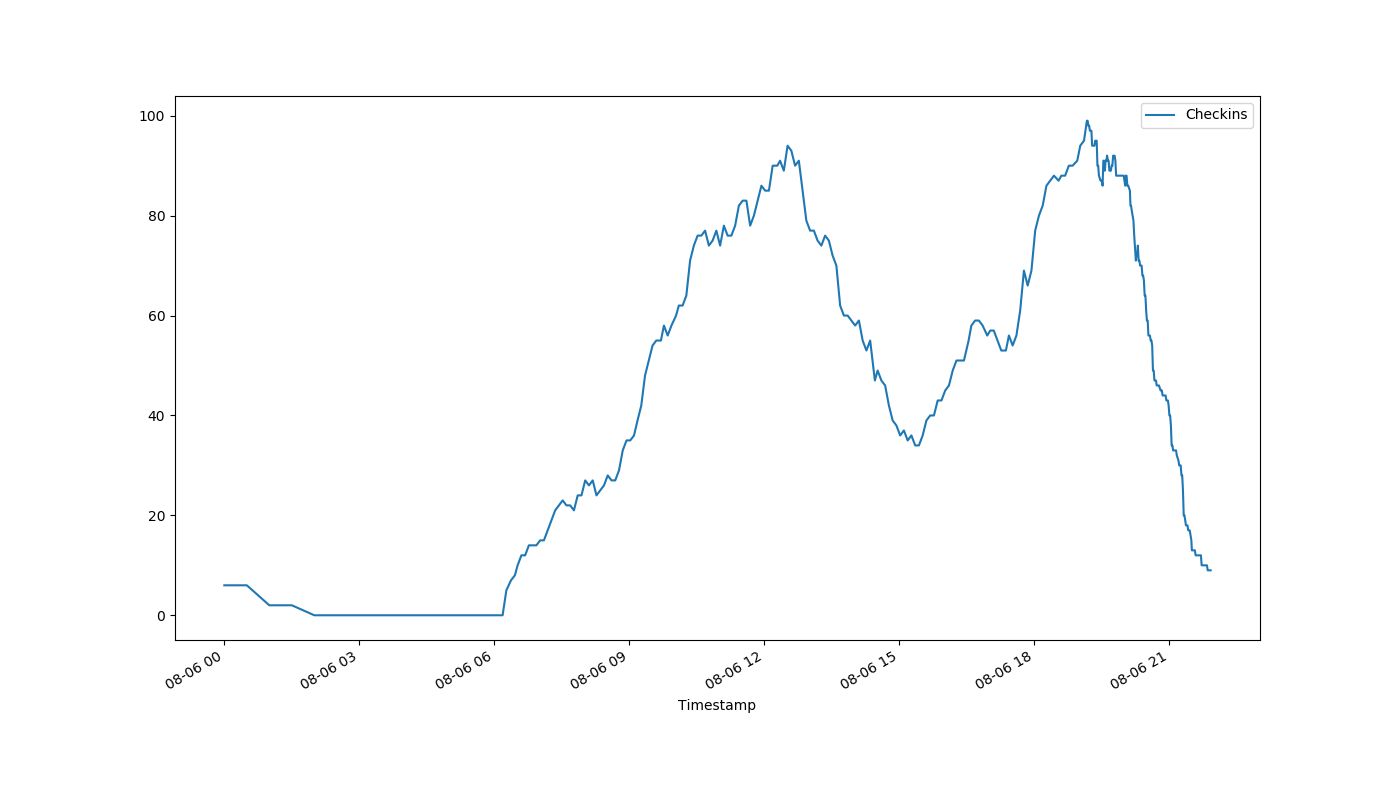
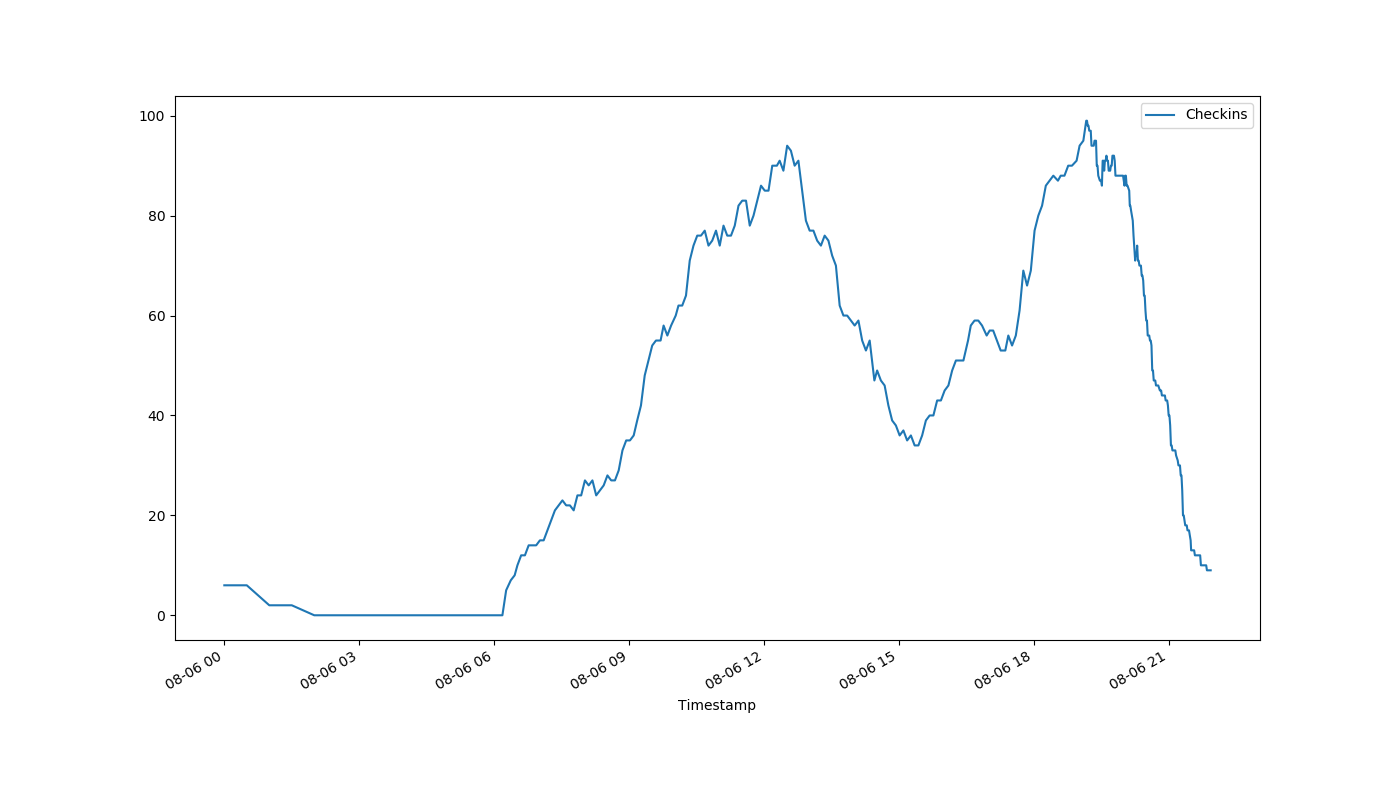
auto-Aug-06-21:57:27

diff --git a/index.html b/index.html
@@ -1,1 +1,1 @@
-<!DOCTYPE html><html><head><meta http-equiv="refresh" content="30"><link rel='stylesheet' href='holmcurrent.css'></head><body><p id='count'>9</p><div id='graph-wrap'><img id='graph' src='holmgraph-Aug-06.png'></div><p id='updated'>Last updated 21:55:20 / 21:55:14</p></body></html>
+<!DOCTYPE html><html><head><meta http-equiv="refresh" content="30"><link rel='stylesheet' href='holmcurrent.css'></head><body><p id='count'>9</p><div id='graph-wrap'><img id='graph' src='holmgraph-Aug-06.png'></div><p id='updated'>Last updated 21:57:01 / 21:56:14</p></body></html>
